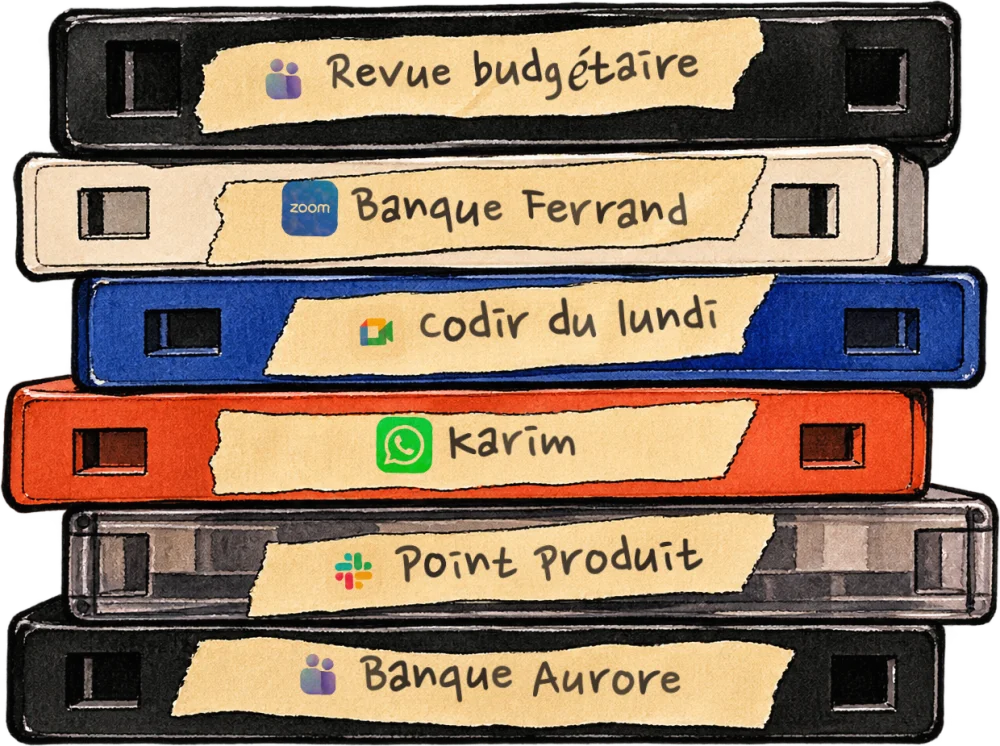
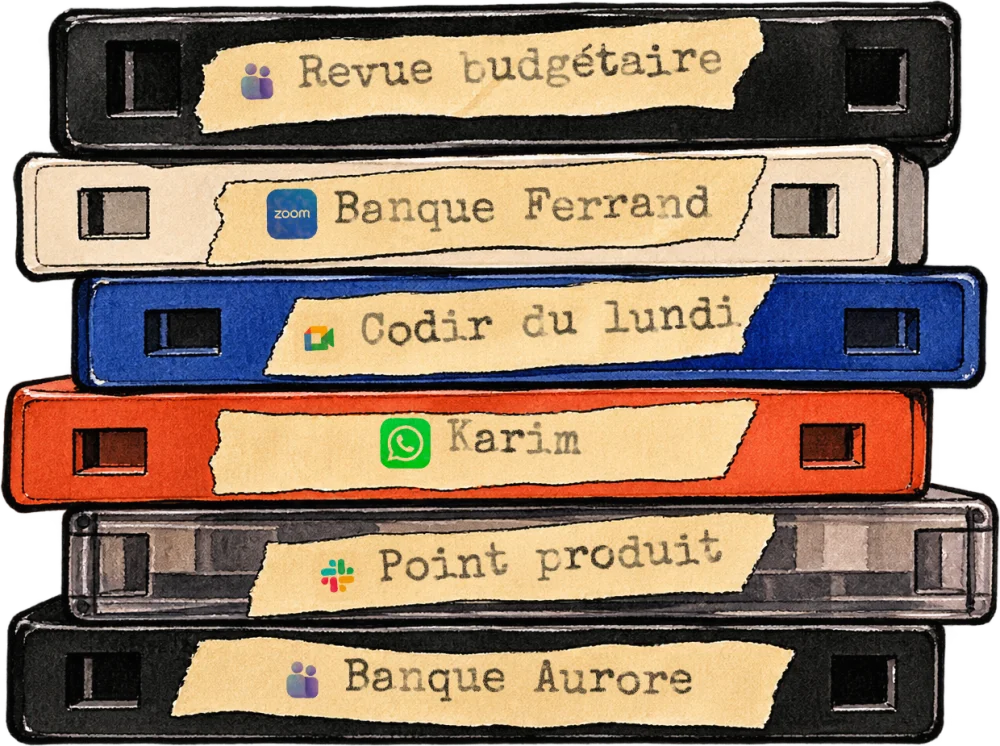
Site : étiquettes des cassettes tapées à la machine, une machine par cassette

diff --git a/index.html b/index.html
@@ -164,7 +164,7 @@
   <section class="follow">
     <ul class="benefits">
         <li class="o-jack text-right"><div><span>Une seule installation, puis plus rien à régler</span><p>Une ligne à copier, deux autorisations, et c'est tout. Ensuite, il démarre avec votre Mac et se fait oublier.</p></div><img src="img/benefices/jack.webp?v=2" width="1200" height="198" loading="lazy" alt="Une fiche jack dessinée à l'encre et à l'aquarelle, qui entre par la gauche et pointe vers le texte."></li>
-        <li class="o-cassettes"><div><span>Une mémoire qui se constitue toute seule</span><p>Zoom, Teams, Meet, FaceTime, WhatsApp, votre téléphone, vos réunions et vos notes vocales&nbsp;: chaque échange est retenu dès qu'il commence, et transcrit dès qu'il se termine.</p></div><img src="img/benefices/cassettes.webp" width="1000" height="746" loading="lazy" alt="Une pile de six cassettes audio dessinées à l'encre et à l'aquarelle ; sur la tranche de chacune, un bout de scotch porte le logo d'une app et le nom de l'appel : Revue budgétaire sur Teams, Banque Ferrand sur Zoom, Codir du lundi sur Meet, Karim sur WhatsApp, Point produit sur Slack, Banque Aurore sur Teams."></li>
+        <li class="o-cassettes"><div><span>Une mémoire qui se constitue toute seule</span><p>Zoom, Teams, Meet, FaceTime, WhatsApp, votre téléphone, vos réunions et vos notes vocales&nbsp;: chaque échange est retenu dès qu'il commence, et transcrit dès qu'il se termine.</p></div><img src="img/benefices/cassettes.webp?v=3" width="1000" height="746" loading="lazy" alt="Une pile de six cassettes audio dessinées à l'encre et à l'aquarelle ; sur la tranche de chacune, un bout de scotch porte le logo d’une app et le nom de l’appel tapé à la machine : Revue budgétaire sur Teams, Banque Ferrand sur Zoom, Codir du lundi sur Meet, Karim sur WhatsApp, Point produit sur Slack, Banque Aurore sur Teams."></li>
         <li class="o-telephone text-right"><div><span>Raccrochez&nbsp;: votre assistant est déjà au courant</span><p>Demandez ce qui a été promis, décidé ou oublié&nbsp;: Claude, Codex et les autres assistants consultent votre mémoire et vous répondent, avec l'appel et l'heure de chaque citation. Rien à copier-coller.</p></div><img src="img/benefices/telephone.webp?v=5" width="1099" height="660" loading="lazy" alt="Le haut d'un téléphone dessiné à l'encre et à l'aquarelle, ouvert sur Claude, une question en cours."></li>
         <li class="o-ordinateur"><div><span>L'audio ne quitte jamais votre Mac</span><p>La transcription se fait sur place, sans compte ni serveur. Votre assistant ne lit que ce dont il a besoin pour vous répondre.</p></div><img src="img/benefices/ordinateur.webp?v=2" width="1200" height="788" loading="lazy" alt="Un ordinateur des années 80 dessiné à l'encre et à l'aquarelle, une liste d'appels à l'écran."></li>
     </ul>
